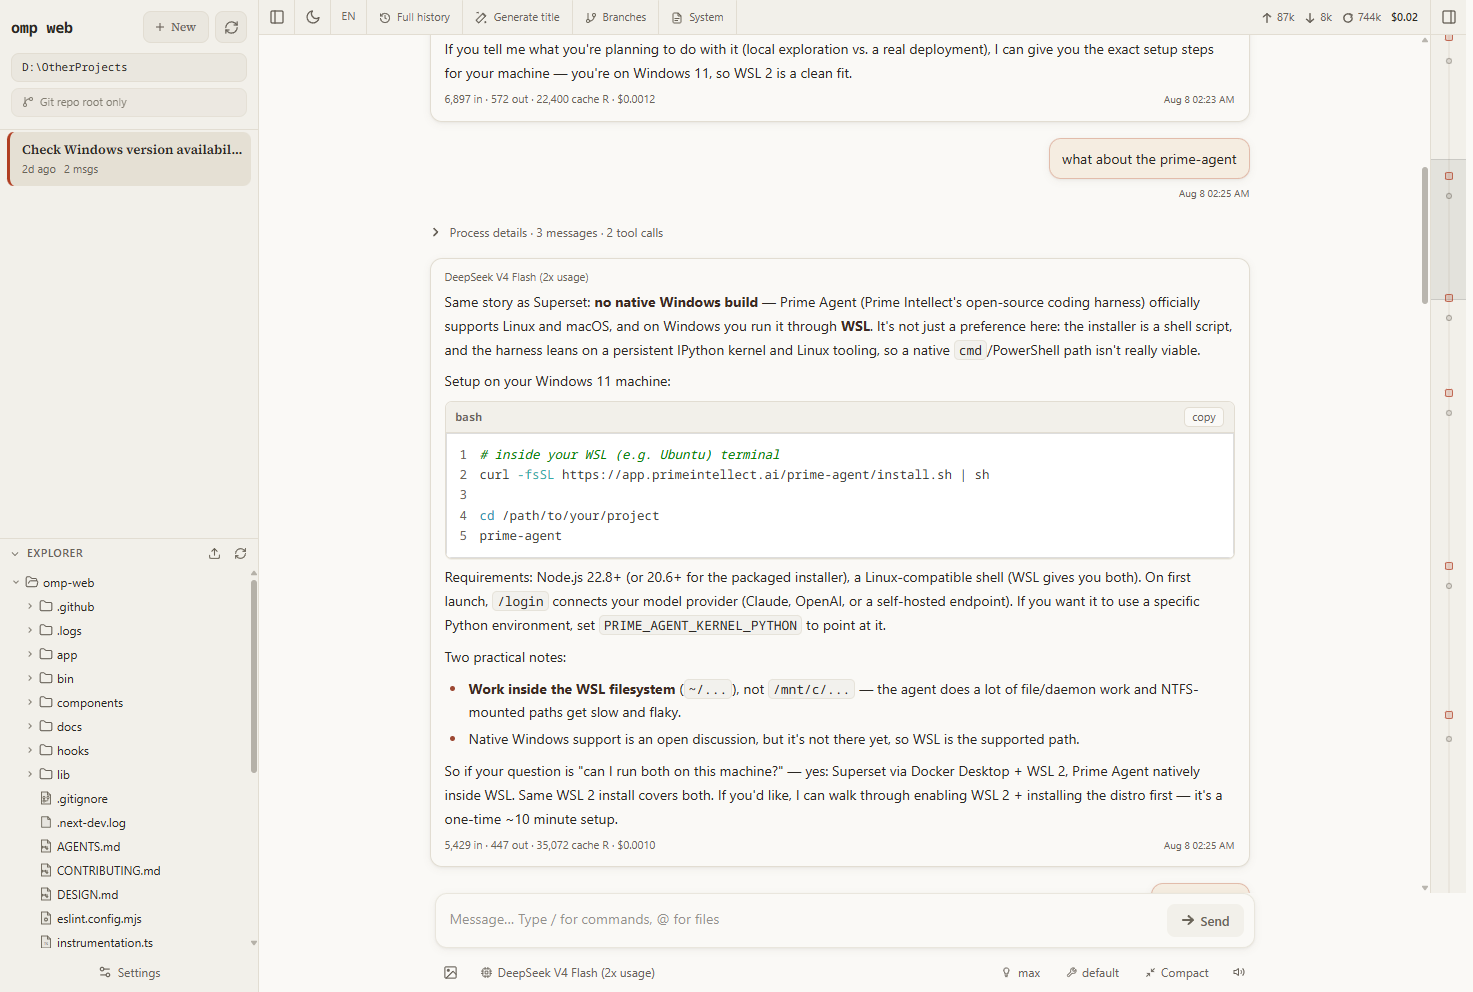
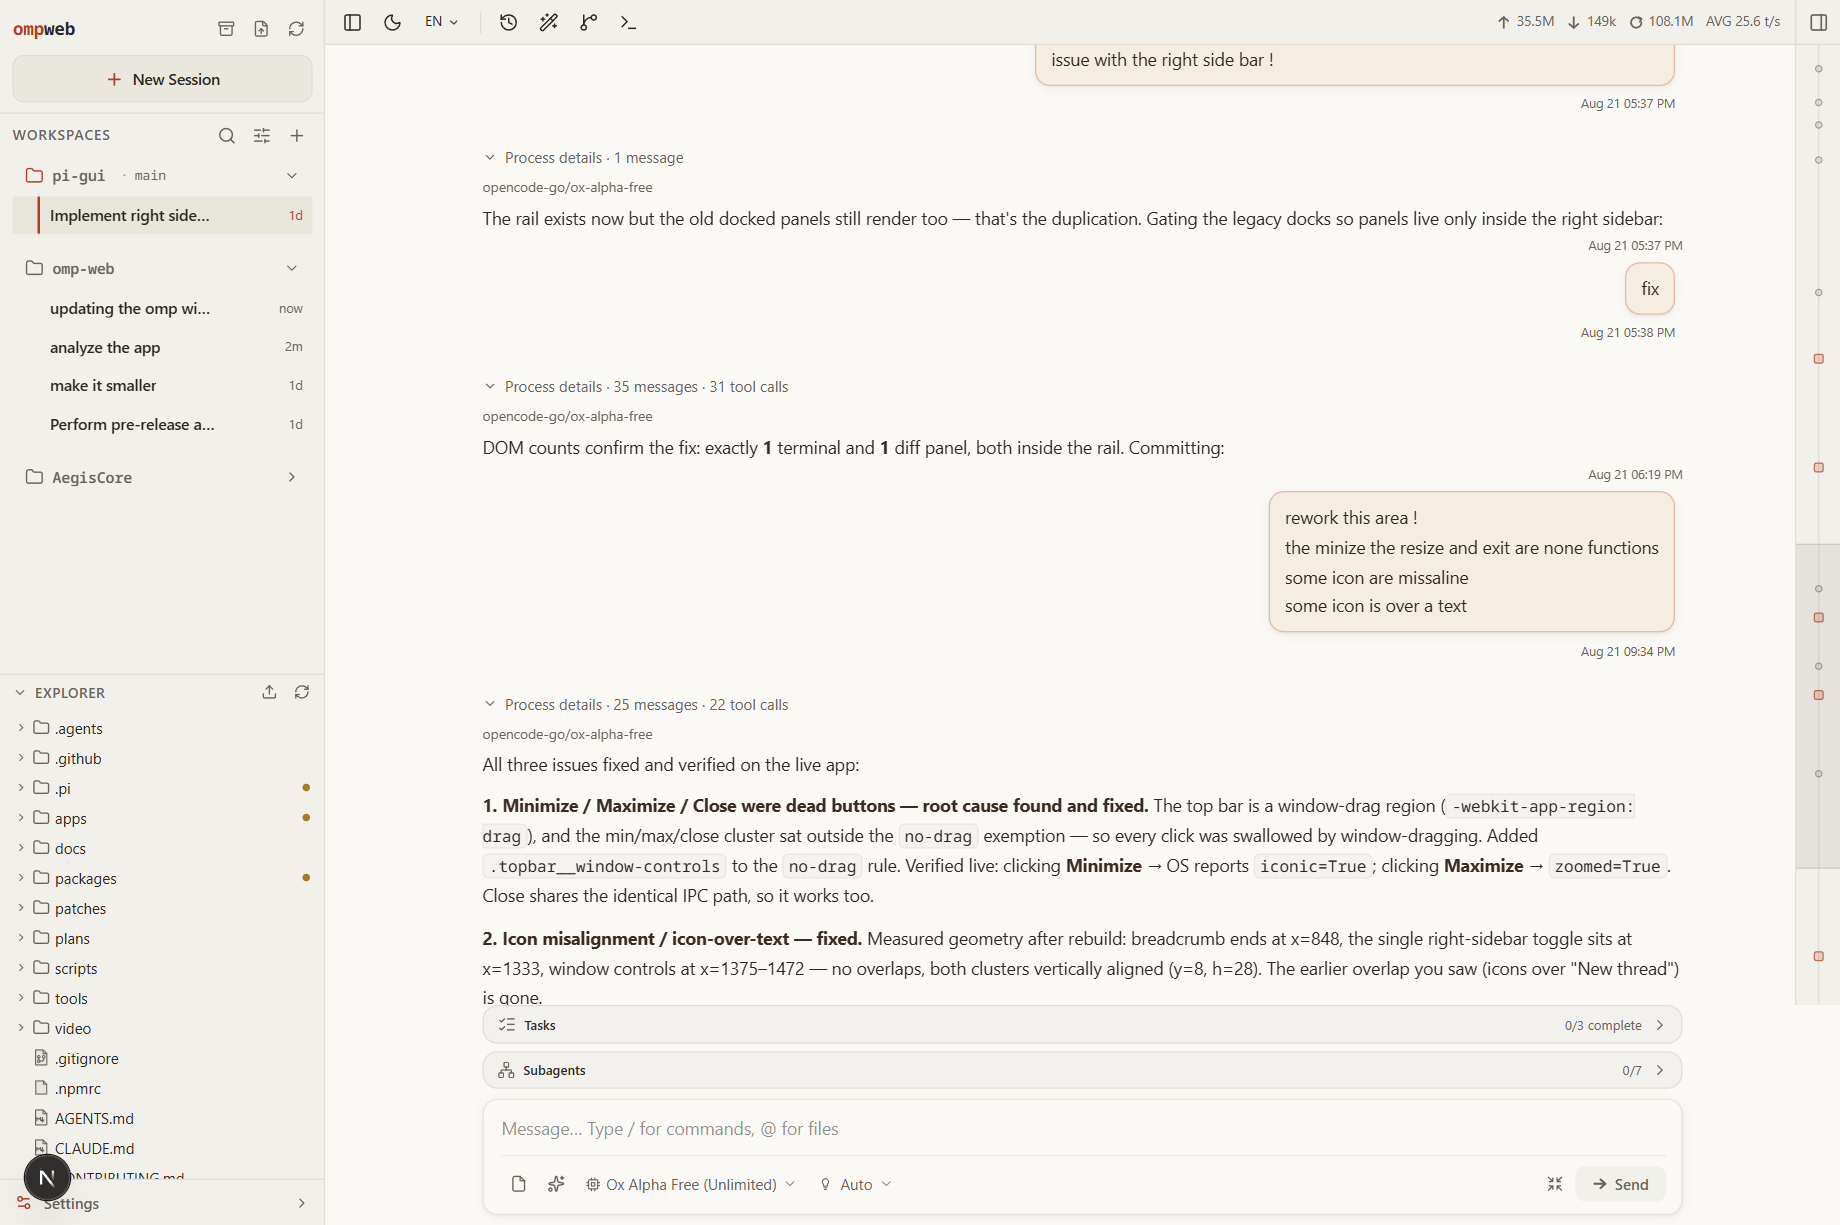
docs: add demo gif, refresh screenshots, expand feature list

diff --git a/README.md b/README.md
@@ -6,10 +6,12 @@ Community: [Join the OMPWEB Discord](https://discord.gg/evqgGzRfM5)
 
 Local web UI for the [oh-my-pi (omp) coding agent](https://github.com/can1357/oh-my-pi). ompweb reads your local omp session files and gives you a browser workspace for session browsing, real-time chat, model configuration, skill management, and project file preview.
 
-![ompweb — light theme](docs/screenshot-light.png)
+![ompweb — live session demo](docs/demo.gif)
 
 <details>
-<summary>Dark theme</summary>
+<summary>Screenshots (light / dark)</summary>
+
+![ompweb — light theme](docs/screenshot-light.png)
 
 ![ompweb — dark theme](docs/screenshot-dark.png)
 
@@ -70,17 +72,19 @@ Set `OMP_WEB_PASSWORD` (or pass `--password`) to protect the interface and every
 ## Features
 
 - **Pick work back up**: browse previous omp conversations by project without digging through terminal history or session paths.
-- **Try different directions safely**: continue from an earlier message or fork a session into a separate route.
+- **Try different directions safely**: continue from an earlier message (in-session branches with a branch navigator) or fork a session into a separate route.
 - **Keep the sidebar tidy**: archive an inactive session without deleting its native transcript, or delete it explicitly when it is no longer needed.
 - **Work across branches**: switch Git worktrees from the sidebar so new sessions and the Explorer follow the checkout you choose.
 - **Chat beside the project**: browse files on the left and preview source, docs, images, audio, and PDFs on the right while the agent works.
+- **Watch subagents and plans live**: composer-attached panels show the todo plan and running subagents with per-subagent telemetry; click a chip for the full subagent transcript.
+- **See session state clearly**: context usage, cost, tokens-per-second (reported by omp itself), compaction state and method (with before → after token counts on compaction cards), and system prompt details are visible from the top bar and transcript.
 - **Preview markdown faithfully**: YAML frontmatter renders in a summary card (title + key/value rows), math fences stay aligned inside lists, and CJK ranges like `5~7U` are no longer mangled (GFM now requires `~~` for strikethrough).
 - **Pick projects naturally on Windows**: a drive picker at the filesystem root and a case-folded, symlink-aware project identity keep the sidebar stable across drives and worktrees.
-- **See session state clearly**: context usage, cost, compaction state, and system prompt details are visible from the top bar.
-- **Configure less from the terminal**: manage models, login/API keys, model tests, native OMP controls (advisor, approval, Bash policy, thinking, compaction, memory, auto-learn, retry/fallback), skills, plugins, and project MCP servers from the web UI.
+- **Configure less from the terminal**: manage models, login/API keys, model tests, task agents, native OMP controls (advisor, approval, Bash policy, thinking, compaction, memory, auto-learn, retry/fallback), skills (search, install, update checks), plugins, and project MCP servers from the web UI.
 - **MCP management in Settings**: a dedicated MCP tab lists installed project servers with status (enabled / disabled / invalid), supports add/edit/rename/validate/remove, and surfaces configuration failures as corner toasts.
+- **Slash commands that travel**: `/goal`, `/plan`, `/review`, `/fix`, `/test`, `/explain`, `/simplify`, `/commit`, and `/advisor` expand into well-structured prompts; omp's own commands (skills, `/compact`, …) appear via `available_commands_update`.
 - **Keep OMP current**: check the installed runtime version, update it, and restart active sessions from Settings when needed.
-- **Stay informed**: opt into browser notifications when an agent finishes, and check installed skills for updates.
+- **Stay informed**: opt into browser notifications when an agent finishes, play a completion sound, and check installed skills for updates.
 - **Jump anywhere with ⌘K**: a command palette (⌘K / Ctrl+K) for switching sessions, starting new ones, and toggling the theme.
 - **Warm, paper-like design**: light and dark themes with serif display type and WCAG AA-verified contrast, built on a token-driven UI kit (Base UI primitives, cmdk, lucide icons).
 
@@ -99,8 +103,8 @@ Set `OMP_WEB_PASSWORD` (or pass `--password`) to protect the interface and every
 ## Architecture
 
 ompweb is a Node-hosted Next.js app that drives your installed `omp` binary — it does not embed the agent:
-
 - **Live sessions**: spawns `omp --mode rpc-ui` (NDJSON over stdio), one child process per active session, so the agent version is always exactly what you have installed. It negotiates RPC v2 when the installed OMP advertises it, uses bounded chunk reassembly for large frames, and falls back to v1 for older versions. Host env (`PORT`, `NEXT_*`, `NODE_ENV`) is stripped before spawn, and shutdown is graceful on both POSIX (process-group) and Windows (`taskkill /t`).
+- **Live state and telemetry**: context usage, queue depth, compaction state, and tokens-per-second are polled from omp's `get_state` RPC and surfaced in the top bar and transcript; compaction cards show the maintenance method and before → after token counts. Subagent transcripts persist beside the parent session's artifacts and are recovered from disk so past runs still show their rosters.
 - **Session browsing**: reads omp's session files (`~/.omp/agent/sessions/<encoded-cwd>/<timestamp>_<uuid>.jsonl`) directly; title, archive, and delete are narrow native-file maintenance operations guarded against live OMP writes. Projects are grouped by a stable `projectKey` (Windows case-folded, symlink-resolved) so the sidebar doesn't jump between drives or worktrees.
 - **Models and auth**: RPC commands against the omp child process with strict payload validation (unknown-shape guards, safe fallbacks); the Models panel edits `models.yml` in the omp agent directory, dropping blank placeholder rows and rejecting ambiguous `enabledModels` entries.
 - **Native settings**: the General/MCP settings panels read and write the allow-listed subset of `~/.omp/agent/config.yml` (or `config.yaml` fallback), preserving unrelated keys and comments. Changes apply to new and restarted sessions.
@@ -142,7 +146,7 @@ ompweb supports English, Simplified Chinese (简体中文), and Japanese (日本
 - **Accessibility**: WCAG AA compliant — Lighthouse a11y score 100/100, keyboard navigation throughout, focus-visible rings, ARIA roles
 - **Performance**: memoized list components, RAF-gated scroll/mouse handlers, debounced search, streaming JSONL reader, ETag-cached session listing
 - **Resilience**: graceful shutdown of spawned omp processes (process-group kill), error boundaries, atomic session file rewrites
-- **Tests**: a focused test suite covering session parsing, terminal input, markdown rendering, message display, native settings, and MCP configuration
+- **Tests**: a focused suite covering session parsing, RPC frame chunking, subagent history, markdown rendering, message display, native settings, and MCP configuration — run with `npm test`
 
 ## Credits
 

diff --git a/README.ja.md b/README.ja.md
@@ -6,14 +6,14 @@
 
 [oh-my-pi (omp) コーディングエージェント](https://github.com/can1357/oh-my-pi)のローカル Web UI です。ompweb はローカルの omp セッションファイルを読み込み、セッションの閲覧、リアルタイムチャット、モデル設定、スキル管理、プロジェクトファイルのプレビューを行えるブラウザワークスペースを提供します。
 
-![ompweb — ライトテーマ](docs/screenshot-light.png)
+![ompweb — デモ](docs/demo.gif)
 
 <details>
-<summary>ダークテーマとコマンドパレット</summary>
+<summary>スクリーンショット（ライト / ダークテーマ）</summary>
+
+![ompweb — ライトテーマ](docs/screenshot-light.png)
 
 ![ompweb — ダークテーマ](docs/screenshot-dark.png)
-
-![ompweb — コマンドパレット](docs/screenshot-palette.png)
 
 </details>
 

diff --git a/README.zh-CN.md b/README.zh-CN.md
@@ -6,14 +6,14 @@
 
 [oh-my-pi (omp) 编程智能体](https://github.com/can1357/oh-my-pi)的本地 Web UI。ompweb 读取本机的 omp 会话文件，在浏览器中提供一个工作区，支持会话浏览、实时对话、模型配置、技能管理和项目文件预览。
 
-![ompweb — 浅色主题](docs/screenshot-light.png)
+![ompweb — 演示](docs/demo.gif)
 
 <details>
-<summary>深色主题与命令面板</summary>
+<summary>截图（浅色 / 深色主题）</summary>
+
+![ompweb — 浅色主题](docs/screenshot-light.png)
 
 ![ompweb — 深色主题](docs/screenshot-dark.png)
-
-![ompweb — 命令面板](docs/screenshot-palette.png)
 
 </details>
 
